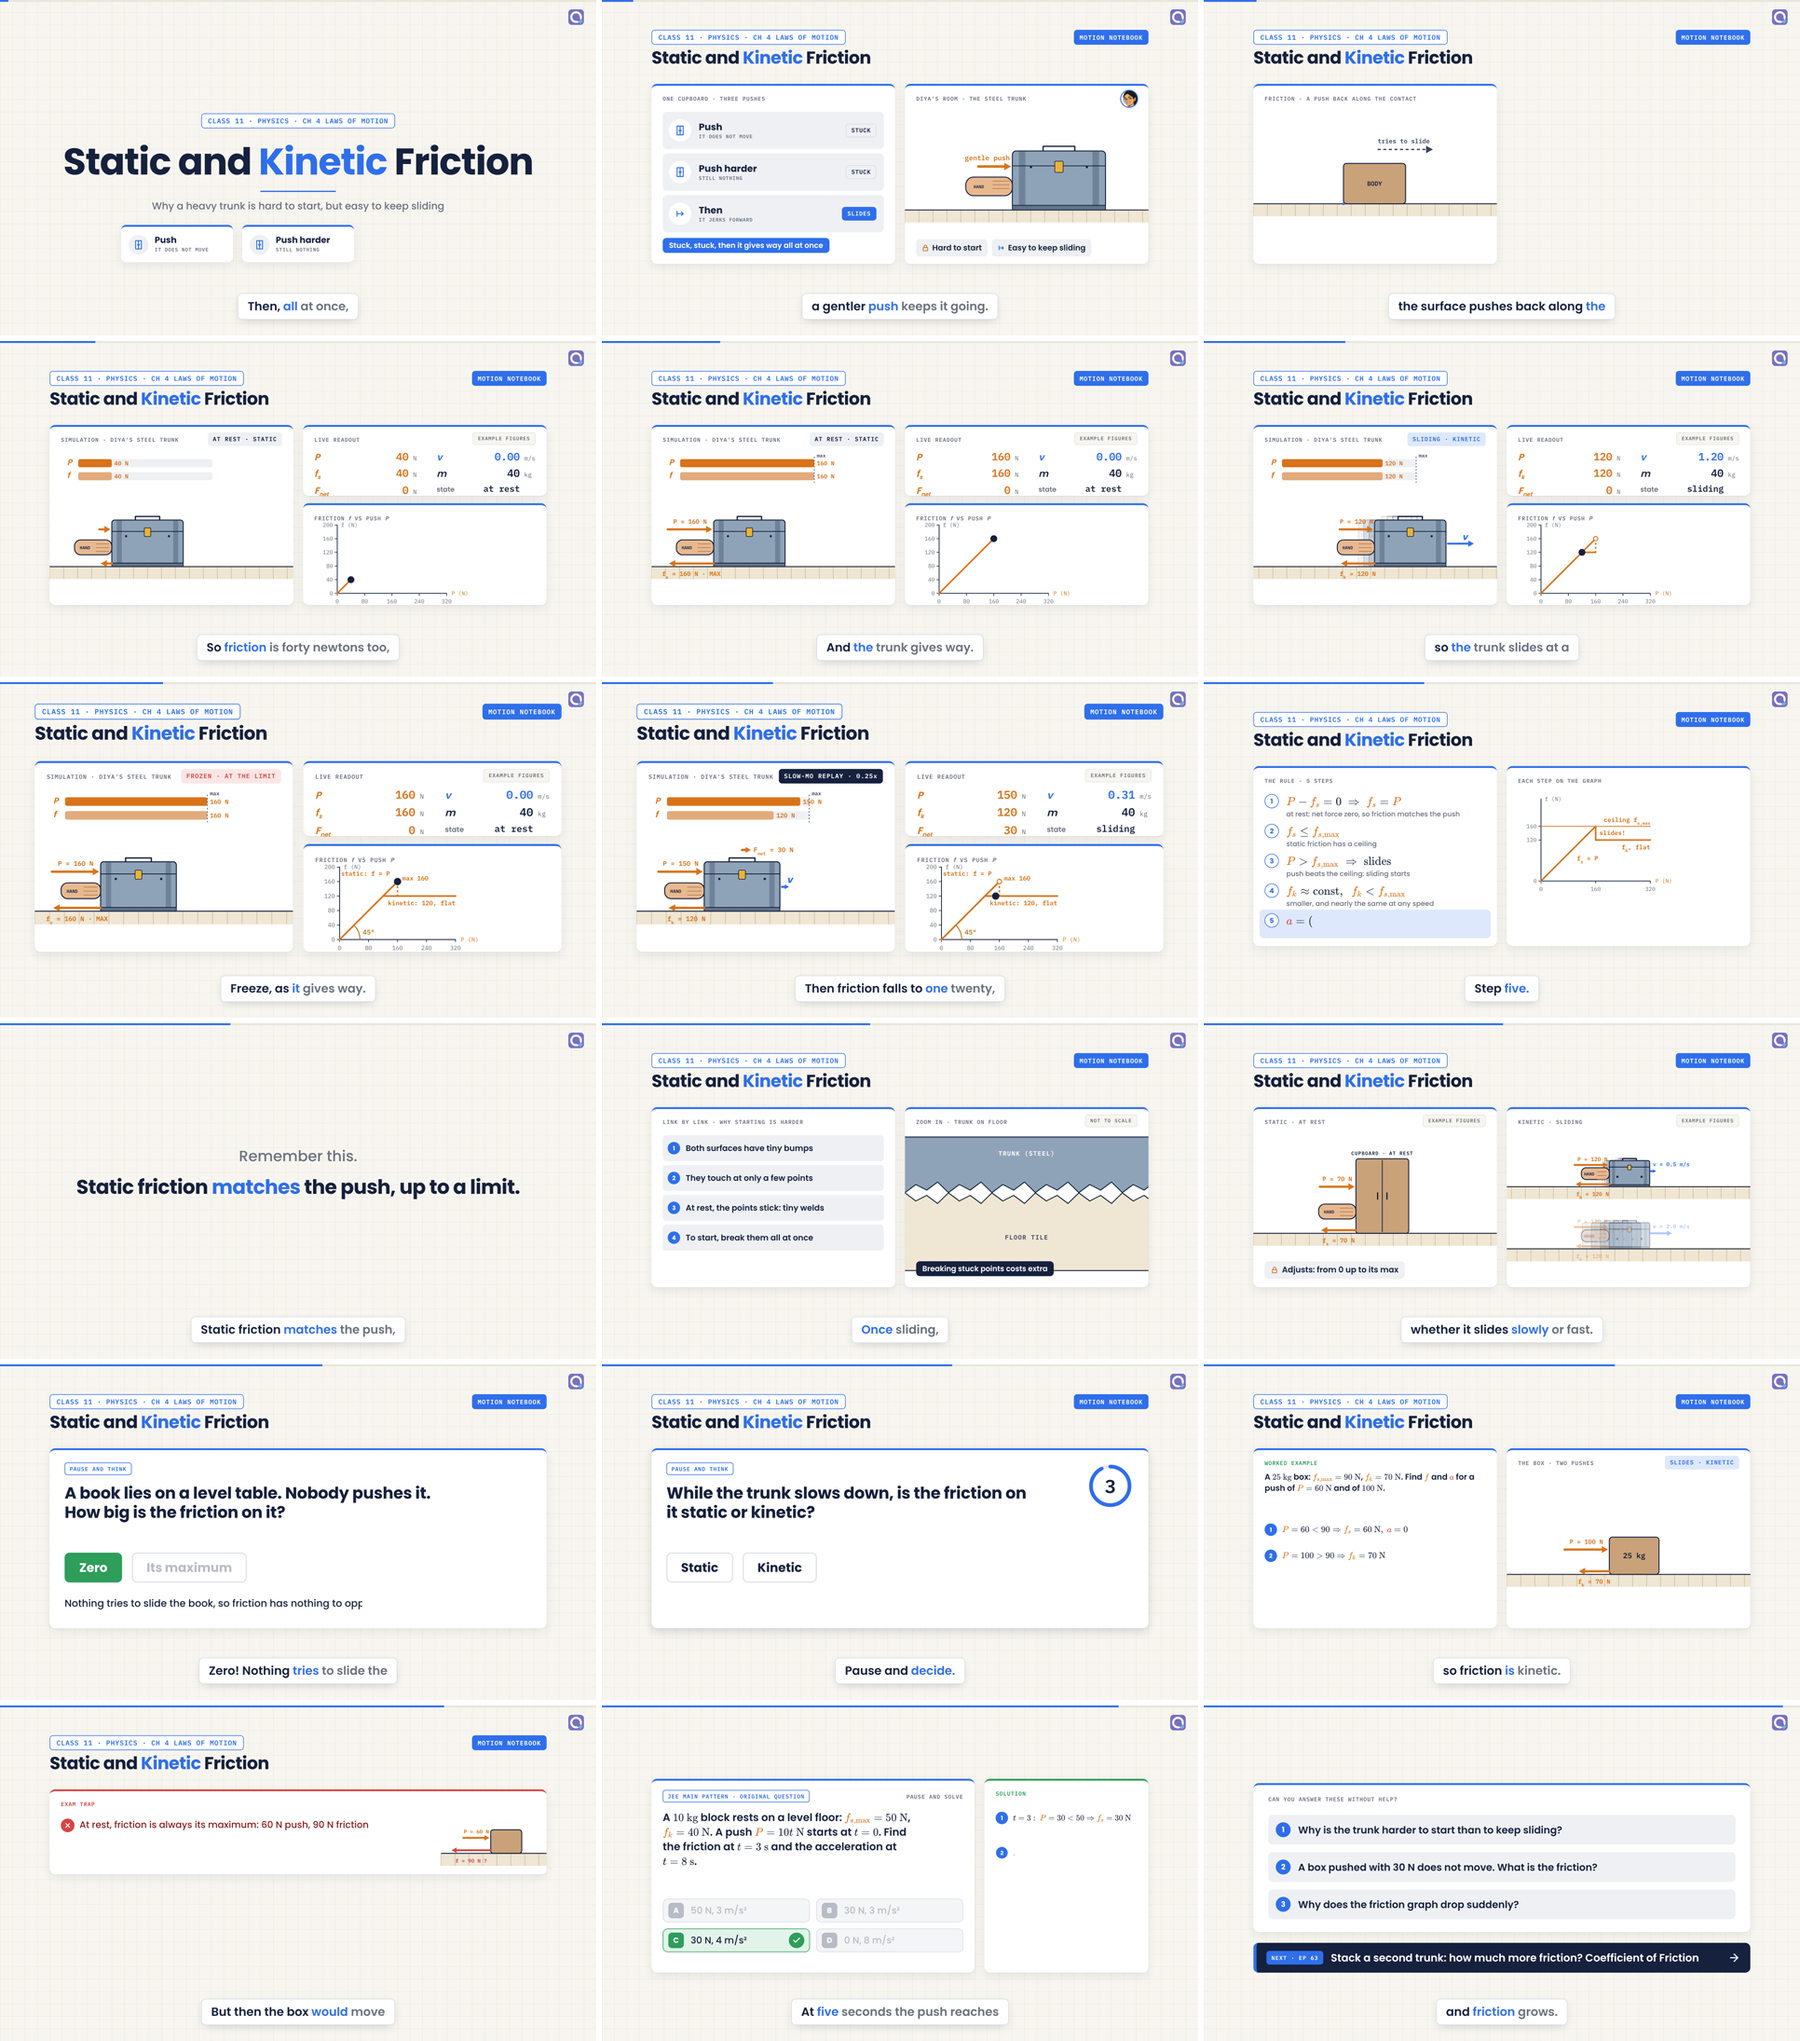
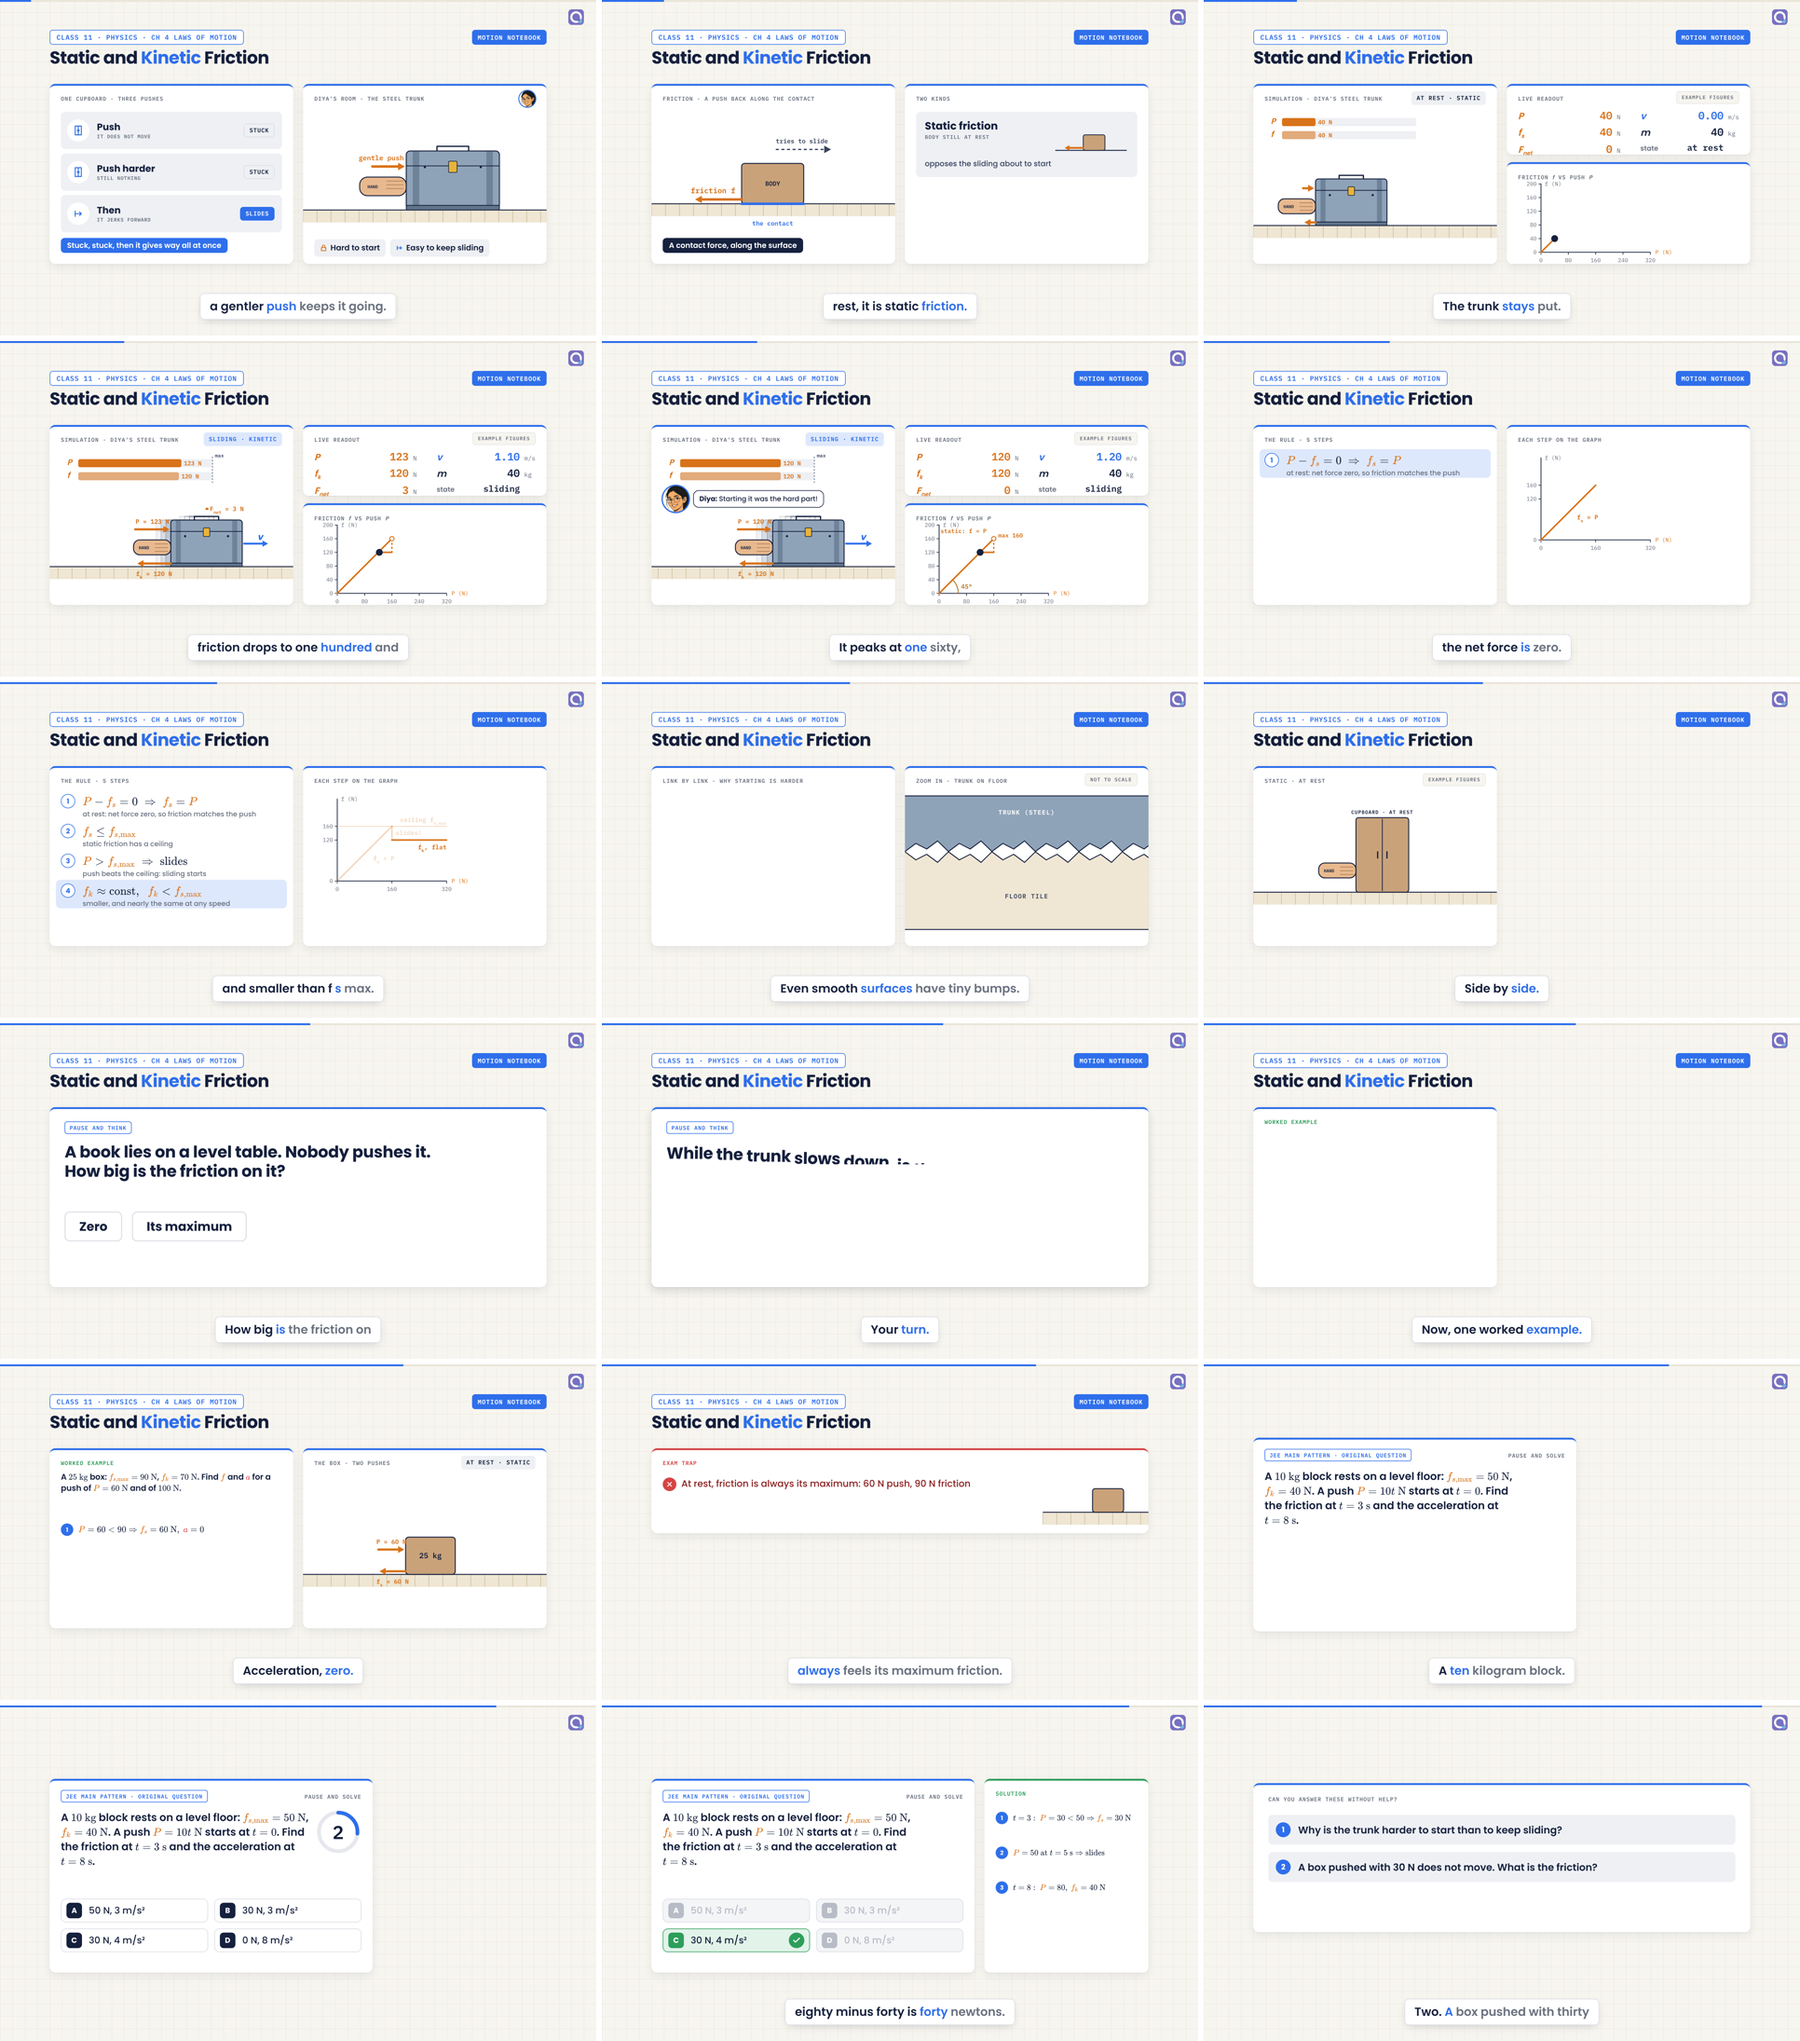
puc-physics Eps 62-63 reviewed, ready (Ep 62 think line fits card)
Claude-Session: https://claude.ai/code/session_01A9Yf9Ux47ei315g5AMbUHs

diff --git a/videos/puc-physics-static-and-kinetic-friction/scene.js b/videos/puc-physics-static-and-kinetic-friction/scene.js
@@ -178,7 +178,7 @@ const kLn = KL.map(([y, v, w]) => { const fl = floorT(k2, 0, 784, y, 45); const 
   const vl = lab(k2, `v = ${v.toFixed(1)} m/s`, VC, { 'font-size': 18 }); attr(vl, 'x', 470); attr(vl, 'y', y - 66);
   const items = [tr, hd, pa.g, fa.g, va.g, fl2, pl2, vl]; return { y, v, w, fl, gh, items }; });
 $('#k2P').innerHTML = `${M.icon('move', 24, FC, 2.4)}<span>Nearly constant, slow or fast</span>`;
-const th1 = PUC.think($('#th1'), { q: 'A book lies on a level table. Nobody pushes it. How big is the friction on it?', opts: ['Zero', 'Its maximum'], right: 0, why: 'Nothing tries to slide the book, so friction has nothing to oppose.' });
+const th1 = PUC.think($('#th1'), { q: 'A book lies on a level table. Nobody pushes it. How big is the friction on it?', opts: ['Zero', 'Its maximum'], right: 0, why: 'Nothing tries to slide the book, so friction is zero.' });
 
 /* ---------- V: Diya lets go ---------- */
 const vs = $('#vS'), VF = 420, VXL = 470;
